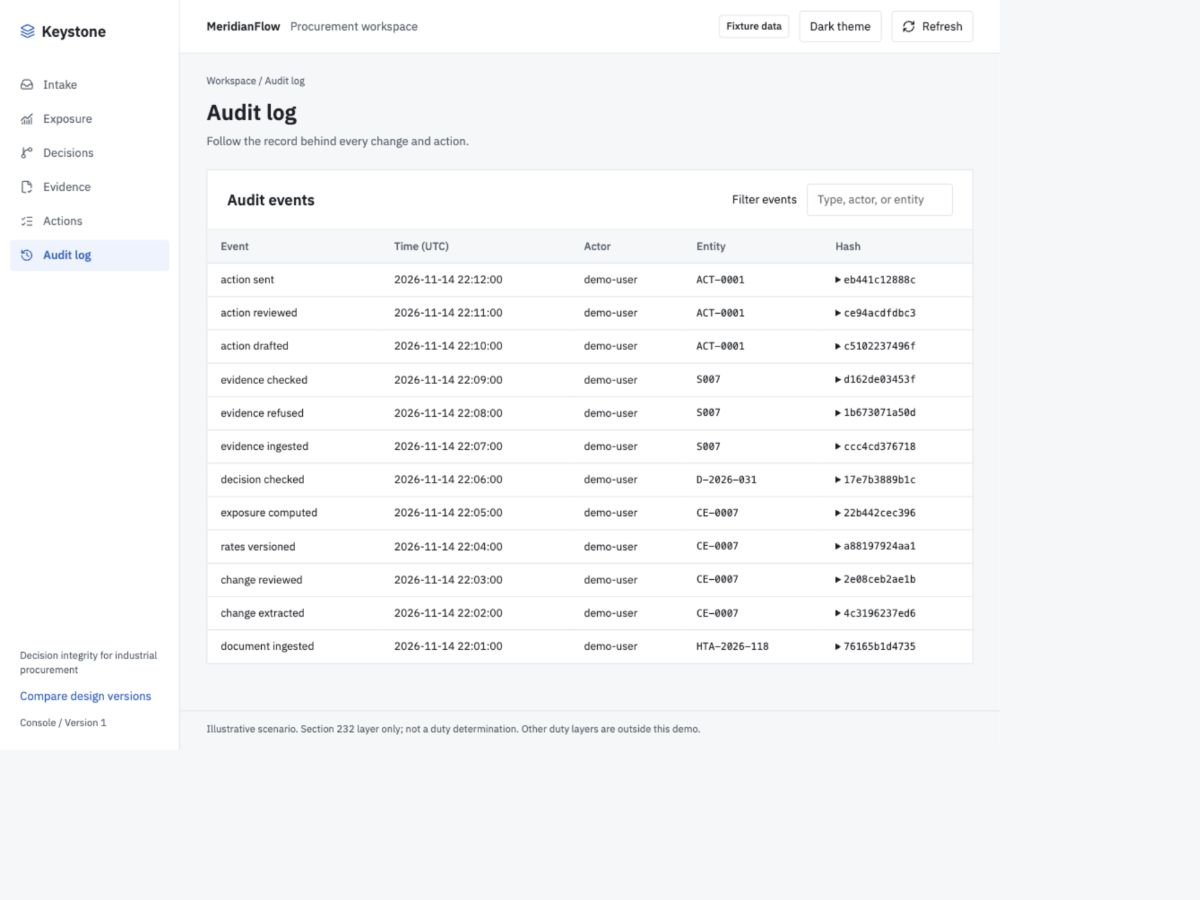
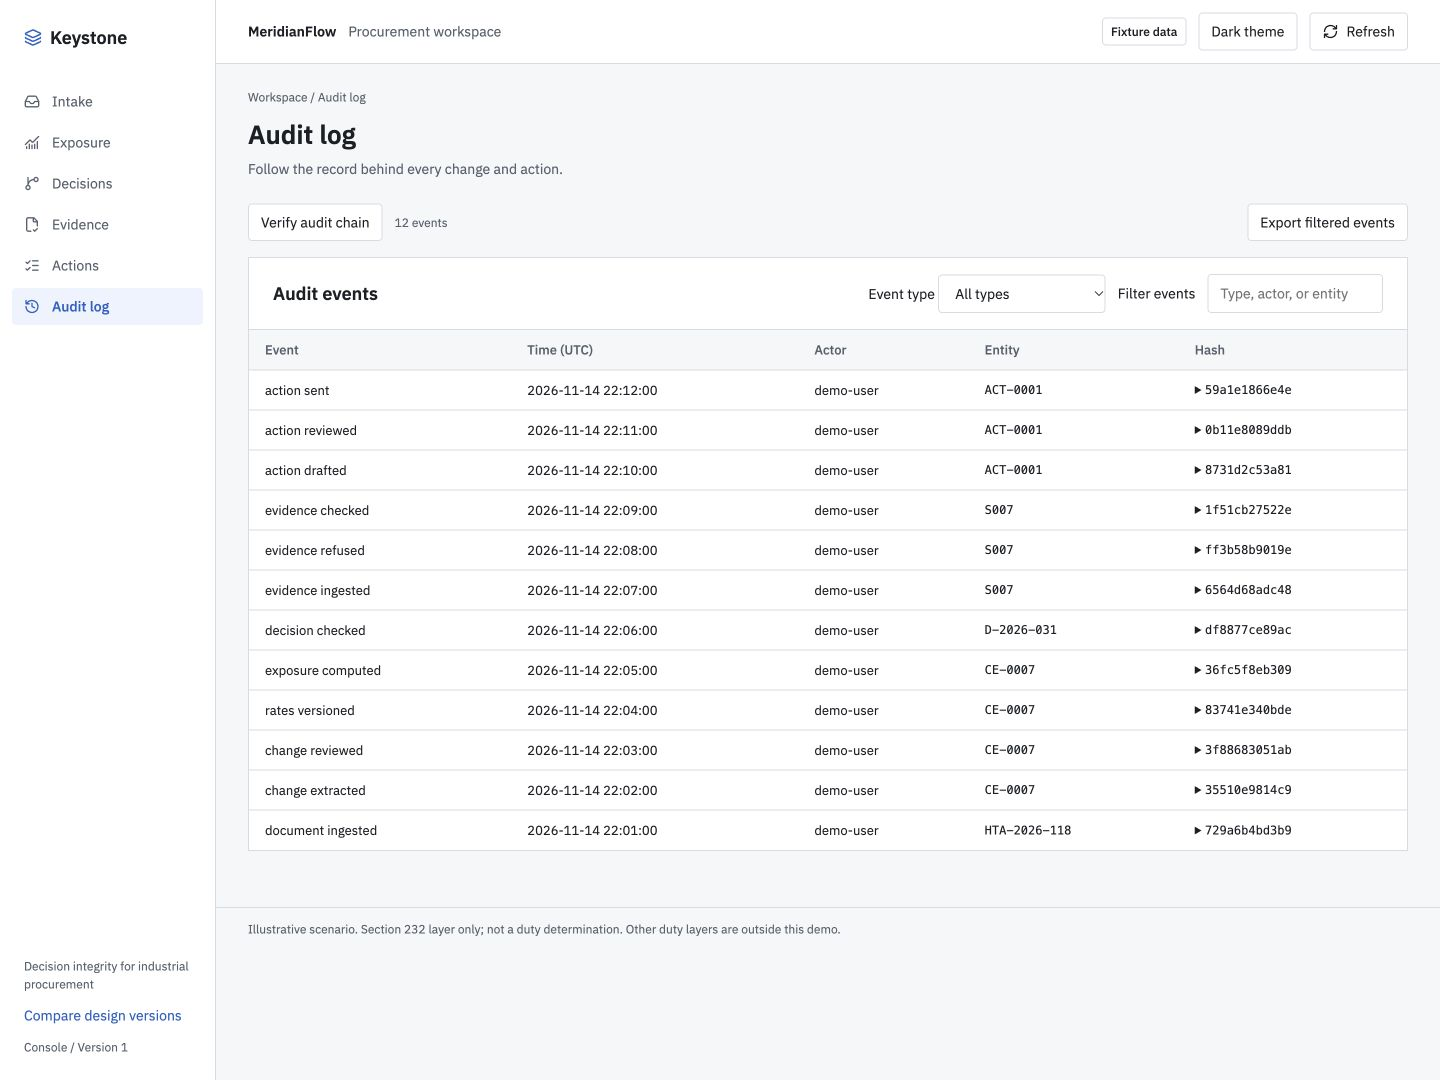
T31-T36: validate corrected fixtures and capture production interactions

diff --git a/web/variants/v1/workspace.test.tsx b/web/variants/v1/workspace.test.tsx
@@ -2,6 +2,7 @@ import React from "react";
 import { afterEach, beforeEach, expect, it, vi } from "vitest";
 import { cleanup, render, screen, fireEvent, within, waitFor } from "@testing-library/react";
 import ConsoleWorkspace from "./workspace";
+vi.mock("./pdf-page", () => ({ default: () => <div aria-label="PDF page"/> }));
 beforeEach(() => {
   sessionStorage.clear();
   vi.stubGlobal("ResizeObserver", class {
@@ -57,7 +58,7 @@ it("maps a selected extracted field to its exact cited region", () => {
 });
 it("shows the refusal reason with a highlighted scan region", () => {
   render(<ConsoleWorkspace screen="evidence"/>);
-  expect(screen.getByText("The mill certificate scan obscures the melt and pour location.")).toBeTruthy();
+  expect(screen.getByText("UK melt and pour is unreadable or below 85% confidence.")).toBeTruthy();
   fireEvent.click(screen.getByRole("button", { name: "Inspect uk melt and pour source" }));
   expect(parseFloat(screen.getByRole("img", { name: "Highlighted source region" }).style.top)).toBeCloseTo(28);
 });

diff --git a/web/variants/v1/source-viewer.tsx b/web/variants/v1/source-viewer.tsx
@@ -42,8 +42,10 @@ export function SourceViewer({ citation }: { citation: Citation | null }) {
   const [failed, setFailed] = useState("");
   const source = citation ? (sources as Record<string, Source>)[citation.doc_id] : undefined;
   const currentLive = liveSource?.docId === citation?.doc_id ? liveSource : null;
-  const page = useFixtures ? citation && source?.pages[citation.page - 1] : currentLive?.url;
-  const pdf = !useFixtures && currentLive?.pdf;
+  const pdf = useFixtures ? !!source?.original.endsWith(".pdf") : !!currentLive?.pdf;
+  const page = useFixtures
+    ? citation && (pdf ? source?.original : source?.pages[citation.page - 1])
+    : currentLive?.url;
   const original = useFixtures ? source?.original : currentLive?.url;
   const box = citation?.bbox;
   const validBox = box?.length === 4 && box.every(value => Number.isFinite(value) && value >= 0 && value <= 1)

diff --git a/web/lib/audit.test.ts b/web/lib/audit.test.ts
@@ -1,6 +1,7 @@
 // @vitest-environment node
 import { expect, it } from "vitest";
 import events from "./fixtures/audit-test.json";
+import fixtureAudit from "../../contracts/fixtures/audit.json";
 import { verifyAudit } from "./audit";
 it("verifies Python-generated hashes with Unicode and microsecond timestamps", async () => {
   expect((await verifyAudit([...events].reverse())).valid).toBe(true);
@@ -10,4 +11,9 @@ it("detects edited content and missing chain links", async () => {
   edited[0].actor = "changed";
   expect((await verifyAudit(edited)).valid).toBe(false);
   expect((await verifyAudit([events[1]])).valid).toBe(false);
+});
+
+it("verifies every published audit fixture event", async () => {
+  expect(fixtureAudit).toHaveLength(12);
+  expect((await verifyAudit(fixtureAudit)).valid).toBe(true);
 });

diff --git a/web/lib/workspace.test.ts b/web/lib/workspace.test.ts
@@ -12,7 +12,7 @@ describe("shared T00 fixtures", () => {
   });
   it("retains evidence uncertainty and audit history", () => {
     expect(fixtureData.evidence.items[0].fields.melt_location).toBeNull();
-    expect(fixtureData.evidence.items[0].confidence).toBe(0.42);
+    expect(fixtureData.evidence.items[0].fields.melt_location_confidence).toBe(0.42);
     expect(fixtureData.audit).toHaveLength(12);
   });
 });

diff --git a/docs/variants/1/README.md b/docs/variants/1/README.md
@@ -5,3 +5,7 @@ Captured from the actual Keystone in-app browser preview on 2026-11-14. Six desk
 All six mobile routes were checked for page overflow: `document.documentElement.scrollWidth === innerWidth === 375`. Tables and navigation scroll within their own panels. Browser review also exercised PO filtering and its details panel, and checked light/dark theme contrast. Fixed the mobile grid minimum-width issue and dark-theme inherited text color discovered during review.
 
 The images are viewport captures, not full-document exports. Next.js development indicators may appear in the captures.
+
+## Console interaction follow-up
+
+Production-preview review covered field citation highlights, five evidence requirements (three checked, one needs review, one missing), edited-request submission returning D-2026-044 with two pending approvers, successful verification of all 12 regenerated audit events, and a filtered JSON export containing one evidence-refused event. Updated the six desktop/mobile captures and added source-highlight, evidence-refusal, action-submitted, and audit-verified captures.
